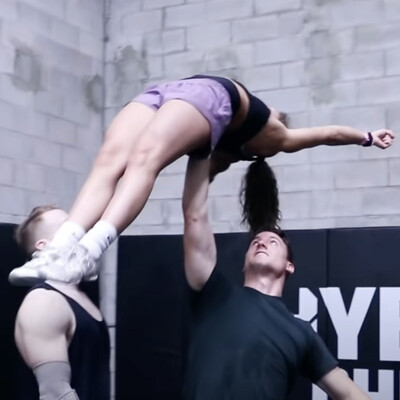
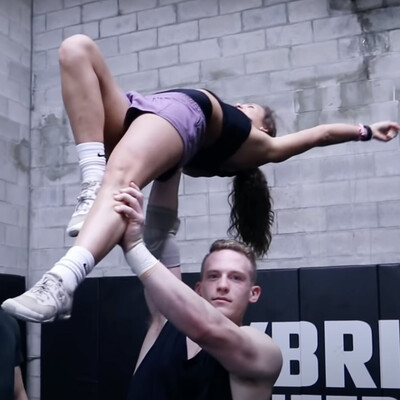
Update

diff --git a/content/crt.md b/content/crt.md
@@ -11,9 +11,9 @@ Classification of computer resources I've pulled out of thin air.
 
 <!-- more -->
 
-| Resource Type | Interface Unit |    Example App     |
-|:-------------:|:--------------:|:------------------:|
-|      CPU      |     Thread     | Multimedia player  |
-|     Disk      |      File      |  Antivirus daemon  |
-|    Memory     |   Cache line   |     Video game     |
-|    Network    |     Socket     | Application server |
+| Resource Type | Interface Unit | Resource-intensive App |
+|:-------------:|:--------------:|:----------------------:|
+|      CPU      |     Thread     |   Multimedia player    |
+|     Disk      |      File      |    Antivirus daemon    |
+|    Memory     |   Cache line   |       Video game       |
+|    Network    |     Socket     |   Application server   |

diff --git a/content/csg.md b/content/csg.md
@@ -7,7 +7,7 @@ categories = ["gallery"]
 tags = ["cheer"]
 +++
 
-Snapshot collection of 110 cheer stunting skills.
+Snapshot collection of 111 cheer stunting skills.
 
 <!-- more -->
 
@@ -172,6 +172,7 @@ c) Make sure to switch to the non-dominant arm.
 {{ image(path="stt.jpg", desc="Set out", link="https://youtu.be/WBMVkXf3oBU?t=751") }}
 {{ image(path="sdp.jpg", desc="Spread drop", link="https://www.youtube.com/shorts/kg0WcXz9El8") }}
 {{ image(path="crl.jpg", desc="Cradle", link="https://youtu.be/WBMVkXf3oBU?t=726") }}
+{{ image(path="frl.jpg", desc="Forward roll", link="https://www.youtube.com/shorts/cxBuRNT1-Lg") }}
 {{ gallery_end() }}
 
 # **Baskets - two bases and a backspot launch and catch a flyer**

diff --git a/content/spt.md b/content/spt.md
@@ -1,6 +1,6 @@
 +++
 title = "Software Product Types"
-date = 2023-09-22
+date = 2023-09-23
 
 [taxonomies]
 categories = ["blog"]

diff --git a/content/cst.md b/content/cst.md
@@ -1,6 +1,6 @@
 +++
 title = "Cloud Service Types"
-date = 2023-09-23
+date = 2023-09-22
 
 [taxonomies]
 categories = ["blog"]
